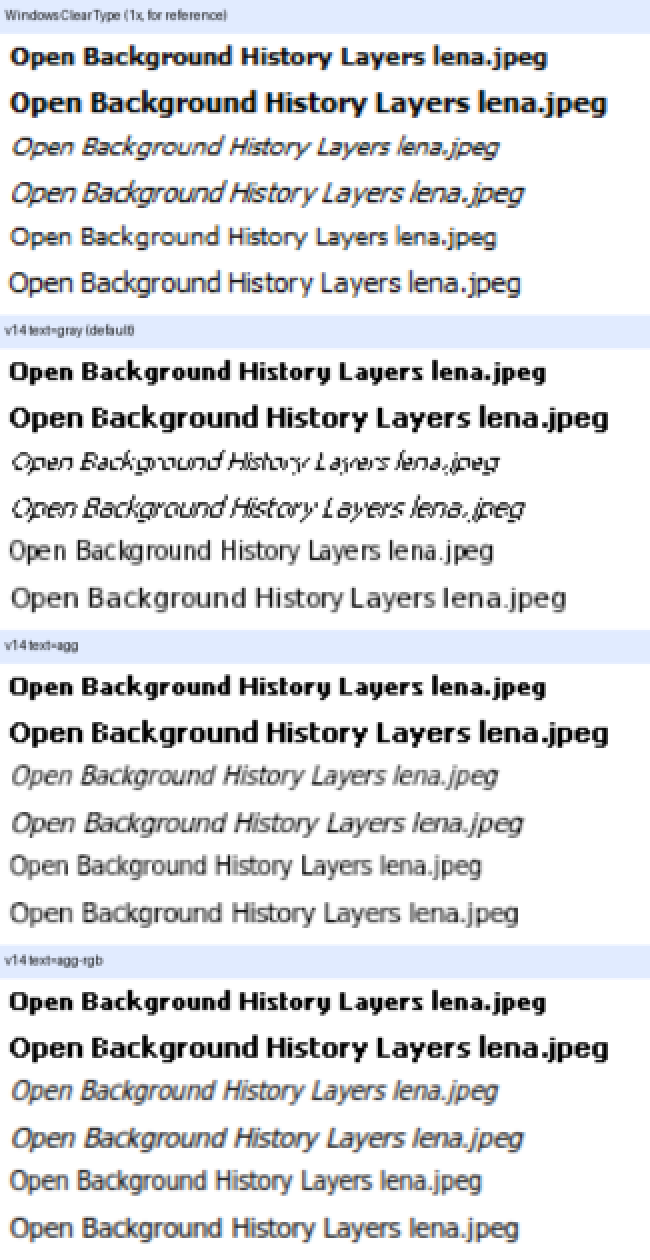
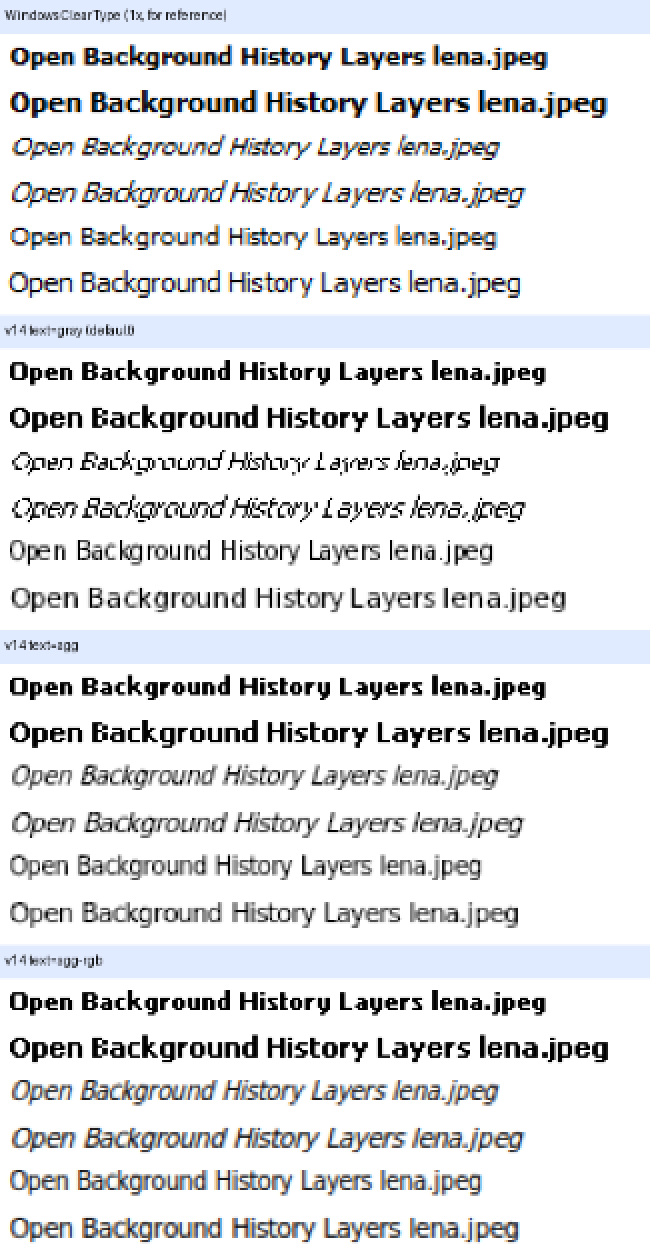
as-seen.py: exact model of the owner's panel (xrandr transform 1.6, pixman bilinear point sampling, verified)
Replaces as-seen.sh (ImageMagick Triangle averaged the area and looked blurred).

Agent: claude-cloud-ada0

Claude-Session: https://claude.ai/code/session_01PoZ4fh2iEvoXSLcJffppwN

diff --git a/scripts/as-seen.py b/scripts/as-seen.py
@@ -1,0 +1,27 @@
+#!/usr/bin/env python3
+"""as-seen.py IN.png OUT.png [SCALE]: what a fractionally scaled panel shows
+of a screenshot of the X screen. The owner's Cinnamon at 125 %: xrandr
+Transform 1.6 with "filter: bilinear" (verified with `xrandr --verbose`,
+2026-11-10, docs/owner-machine.md), i.e. the X server (pixman) takes, for
+each panel pixel, ONE bilinear sample of the 3072x1728 frame at the mapped
+pixel centre: no area averaging, so the result is sharp, not blurred; a
+1-pixel detail survives or partly vanishes depending on where the sample
+lands. SCALE is the transform (default 1.6)."""
+import sys
+import numpy as np
+from PIL import Image
+
+src = np.asarray(Image.open(sys.argv[1]).convert('RGB')).astype(np.float64)
+t = float(sys.argv[3]) if len(sys.argv) > 3 else 1.6
+h, w = src.shape[:2]
+oh, ow = int(h / t), int(w / t)
+# panel pixel centre (x + 0.5) -> source coordinate t * (x + 0.5); pixman samples
+# between source pixel centres, hence the - 0.5
+u = np.clip(t * (np.arange(ow) + 0.5) - 0.5, 0, w - 1)
+v = np.clip(t * (np.arange(oh) + 0.5) - 0.5, 0, h - 1)
+x0 = np.floor(u).astype(int); x1 = np.minimum(x0 + 1, w - 1); fx = (u - x0)[None, :, None]
+y0 = np.floor(v).astype(int); y1 = np.minimum(y0 + 1, h - 1); fy = (v - y0)[:, None, None]
+top = src[y0][:, x0] * (1 - fx) + src[y0][:, x1] * fx
+bottom = src[y1][:, x0] * (1 - fx) + src[y1][:, x1] * fx
+out = top * (1 - fy) + bottom * fy
+Image.fromarray(np.clip(out + 0.5, 0, 255).astype(np.uint8)).save(sys.argv[2])

diff --git a/docs/sandbox-findings.md b/docs/sandbox-findings.md
@@ -28,4 +28,4 @@ them **last**, after the already existing bugs. Newest at the bottom.
 | F20 | 2026-11-09 | GitHub Actions, publish-runtime.yml | `gh release create` with the workflow token fails: `HTTP 403: Resource not accessible by integration` (run 42533949940), although the workflow asks for `contents: write`: the repository caps workflow tokens at read-only. The workflow never worked; v2 was published by the owner by hand | Open. Not the workflow-permission setting: the token already had `Contents: write` (run log), and switching the setting to Read and write (owner, 2026-11-09) changed nothing (run 42534448980). Hypothesis "tag on a commit that changes workflows" disproved: with the tag created by the owner the release create still got 403 (run 42535309352). Cause unknown; the cloud session cannot push tags either (HTTP 403). Releases: owner by hand |
 | F21 | 2026-11-10 | stand: private runtimes (rt-cur3, ~/.local/share/dllmgr/runtimes) | Unchanged base Wine files in an assembled runtime are hard links to /opt/wine-stable: `cp` into such a runtime writes through to the system Wine (shell32.dll of /opt/wine-stable was replaced by a test build for ~1 h; `dllmgr fix` then refused the base). | Fixed: original restored (sha256 ec9d649e...). Rule: replace files in a runtime with `cp --remove-destination` (new inode), never plain `cp` |
 | F22 | 2026-11-10 | patches: dllmgr-66.patch | Regenerating the patch by copying whole files from the local tree (which also carries the opt-in dllmgr-52-gdi.patch) pulled a #52 GDI-scaling hunk (`dc->dllmgr_scale` in font.c) into dllmgr-66.patch; two runtime builds failed (runs 42737052259, 42738363023) | Fixed: hunk removed; rule: after regenerating, grep the patch for other issues' markers and compile font.c/freetype.c of the worktree (stack + patch) before dispatching CI |
-| F23 | 2026-11-10 | owner machine | The owner works at 3072x1728 on a 1920x1080 panel (Cinnamon 2x + xrandr 0.625): screenshots and the stand show the 2x frame, the panel shows it resampled to ~120 DPI. Earlier visual judgements (#66 crisp vs smooth text, #44 cursor sizes, #36 one-pixel fringes) were made on the 2x frame | Documented as a trap in AGENTS.md and docs/owner-machine.md; scripts/as-seen.sh renders the panel view; Wine-side cases go to docs/upstream-outbox.md |
+| F23 | 2026-11-10 | owner machine | The owner works at 3072x1728 on a 1920x1080 panel (Cinnamon 2x + xrandr 0.625): screenshots and the stand show the 2x frame, the panel shows it resampled to ~120 DPI. Earlier visual judgements (#66 crisp vs smooth text, #44 cursor sizes, #36 one-pixel fringes) were made on the 2x frame | Documented as a trap in AGENTS.md and docs/owner-machine.md; scripts/as-seen.py renders the panel view; Wine-side cases go to docs/upstream-outbox.md |

diff --git a/docs/upstream-outbox.md b/docs/upstream-outbox.md
@@ -19,7 +19,7 @@ second one with the link, then add the back link to the first as a comment.
 | 4 | WineHQ 57513 (comment) | PuTTY IME: needs IBus + us,ru + UTF-8; result notify not forwarded to the IME UI window | to write after the bisect | due |
 | 5 | WineHQ (new bug, duplicate search first) | inverting (XOR) pixels of colour cursors become transparent in the Xcursor path | to write after a Windows probe | candidate |
 | 6 | WineHQ (new bug, duplicate search first) | #43 part 1: caption-less owned popups shown without activation are override-redirect, so a splash stays on top of everything when the busy app's main window is minimized (not a Mint bug: Muffin hides managed transients correctly) | to write after a Windows parity check (ghosted app, owned popup) | candidate |
-| 11 | WineHQ (new bugs, one per case, duplicate search first) | HiDPI with fractional scaling (X11 screen at 2x, panel at 1.25x via xrandr; the owner's Cinnamon setup): collect every case where Wine output degrades after the downscale (thin lines, 1-px text detail, cursor sizes, DPI it reports) | to write per case after stand checks with scripts/as-seen.sh | candidate |
+| 11 | WineHQ (new bugs, one per case, duplicate search first) | HiDPI with fractional scaling (X11 screen at 2x, panel at 1.25x via xrandr; the owner's Cinnamon setup): collect every case where Wine output degrades after the downscale (thin lines, 1-px text detail, cursor sizes, DPI it reports) | to write per case after stand checks with scripts/as-seen.py | candidate |
 
 ## Posted (for cross links)
 

diff --git a/docs/owner-machine.md b/docs/owner-machine.md
@@ -11,8 +11,8 @@ rendering and timing; the dump itself is not stored in the repo).
   Consequences: everything we draw at 192 DPI (Xft.dpi 192, Wine LogPixels
   192) is resampled to 1920x1080 before it reaches the eye; screenshots
   (3072x1728) are not what the owner sees. Crisp 1-px detail at 2x becomes
-  0.625-px detail; pixel-exact comparisons should also be checked after a
-  0.625 downscale.
+  0.625-px detail; pixel-exact comparisons should also be checked after the
+  same downscale (scripts/as-seen.py).
   How it is set (owner's screenshot of Cinnamon "Display", 2026-11-10):
   Resolution 1920 x 1080 (16:9), 60.02 Hz, landscape, **Monitor scaling
   125 %** (choices 75/100/125/150/175/200 %). Cinnamon implements a
@@ -20,6 +20,10 @@ rendering and timing; the dump itself is not stored in the repo).
   plus an xrandr transform that makes the X screen 1920 * 1.6 = 3072 wide
   and scales it back by 1/1.6 = 0.625 to the panel: 2 * 0.625 = 1.25.
   Any Mint user who picks 125/150/175 % gets this kind of setup.
+  Verified with `xrandr --verbose` (2026-11-10): eDP-1 Transform 1.599991,
+  **filter: bilinear** = one bilinear sample per panel pixel (pixman, no
+  area averaging): sharp, not blurred, but 1-px details at 2x survive or
+  fade depending on the sample phase. scripts/as-seen.py reproduces it.
 - Xft: antialias 1, hinting 1, hintslight, rgba rgb; text-scaling-factor 1.0.
 - Cursor theme Bibata-Modern-Classic, size 24 (#44 theme matching).
 - 2543 fonts (fc-list), the stand has 701 (#70).

diff --git a/AGENTS.md b/AGENTS.md
@@ -51,8 +51,8 @@ Rules (owner's, non-negotiable):
   (docs/owner-machine.md). Screenshots and the stand show the 2x frame;
   his eyes get it resampled to ~120 DPI. Judge text, thin lines, cursors
   and pixel-exact fixes also after a 0.625 downscale
-  (scripts/as-seen.sh; its filter is an assumption until checked with
-  `xrandr --verbose` there), and keep in mind that HiDPI with fractional scaling
+  (scripts/as-seen.py: xrandr transform 1.6, filter bilinear, verified with
+  `xrandr --verbose` on the owner's machine), and keep in mind that HiDPI with fractional scaling
   is common: every case where Wine handles it badly is a WineHQ report
   for docs/upstream-outbox.md (owner, 2026-11-10).
 - When a fix lives only in the private runtime (a Wine patch), also look,
